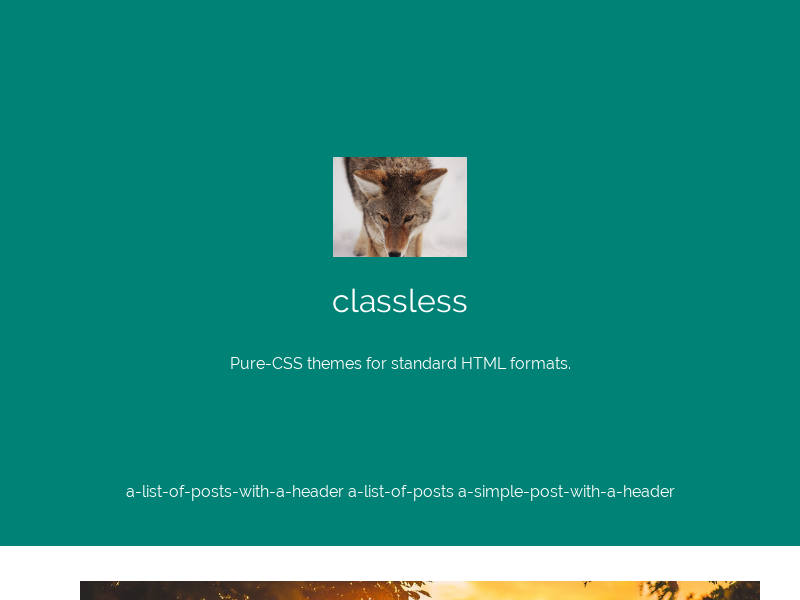
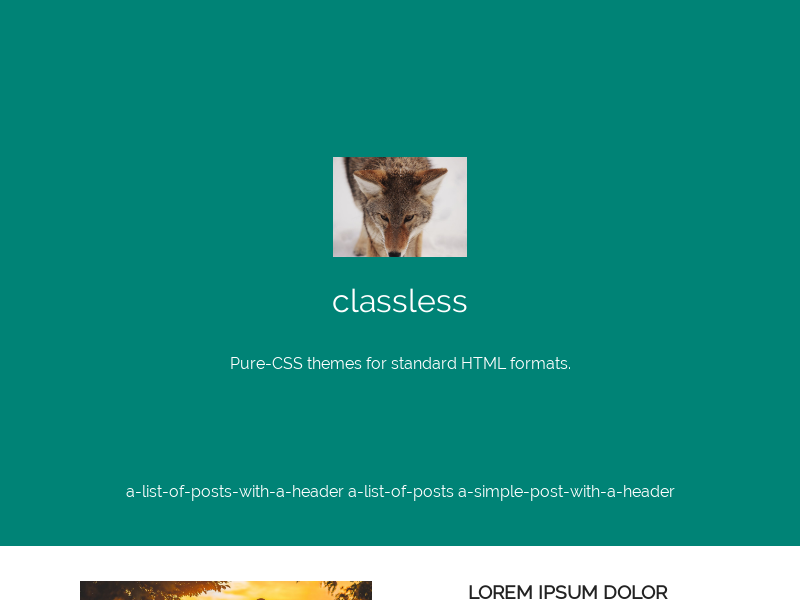
use column-count on barbieri for list of posts.
and fix tags.

Changed region(s): [[0.125, 0.96, 0.9688, 1.0]]

diff --git a/themes/barbieri/src/style.css b/themes/barbieri/src/style.css
@@ -112,16 +112,23 @@ body > main {
     }
   
   body > main > section {}
-  body > main section ul,
-  body > main section ol {
+  body > main section ul {
     list-style: none;
     margin: 40px 0;
     height: auto;
     overflow: auto;
+    column-count: 1;
+  }
+  @media (min-width: 700px) {
+    body > main section ul { column-count: 2; }
+  }
+  @media (min-width: 1100px) {
+    body > main section ul {
+      column-count: auto;
+      column-width: 210px;
+    }
   }
   body > main section li {
-    float: left;
-    width: 50%;
     padding: 10px;
   }
   @media (max-width: 900px) {
@@ -133,6 +140,17 @@ body > main {
   body > main section li article header h1 {
     text-transform: uppercase;
   }
+  body > main section li article header aside ul {
+    display: inline;
+    padding: 0;
+    list-style: none;
+  }
+    body > main section li article header aside li {
+      display: inline;
+    }
+      body > main section li article header aside li a {
+        padding: 2px 8px;
+      }
 
 body > aside {
   width: 890px;

diff --git a/themes/barbieri/theme.css b/themes/barbieri/theme.css
@@ -112,16 +112,23 @@ body > main {
     }
   
   body > main > section {}
-  body > main section ul,
-  body > main section ol {
+  body > main section ul {
     list-style: none;
     margin: 40px 0;
     height: auto;
     overflow: auto;
+    column-count: 1;
+  }
+  @media (min-width: 700px) {
+    body > main section ul { column-count: 2; }
+  }
+  @media (min-width: 1100px) {
+    body > main section ul {
+      column-count: auto;
+      column-width: 210px;
+    }
   }
   body > main section li {
-    float: left;
-    width: 50%;
     padding: 10px;
   }
   @media (max-width: 900px) {
@@ -133,6 +140,17 @@ body > main {
   body > main section li article header h1 {
     text-transform: uppercase;
   }
+  body > main section li article header aside ul {
+    display: inline;
+    padding: 0;
+    list-style: none;
+  }
+    body > main section li article header aside li {
+      display: inline;
+    }
+      body > main section li article header aside li a {
+        padding: 2px 8px;
+      }
 
 body > aside {
   width: 890px;
